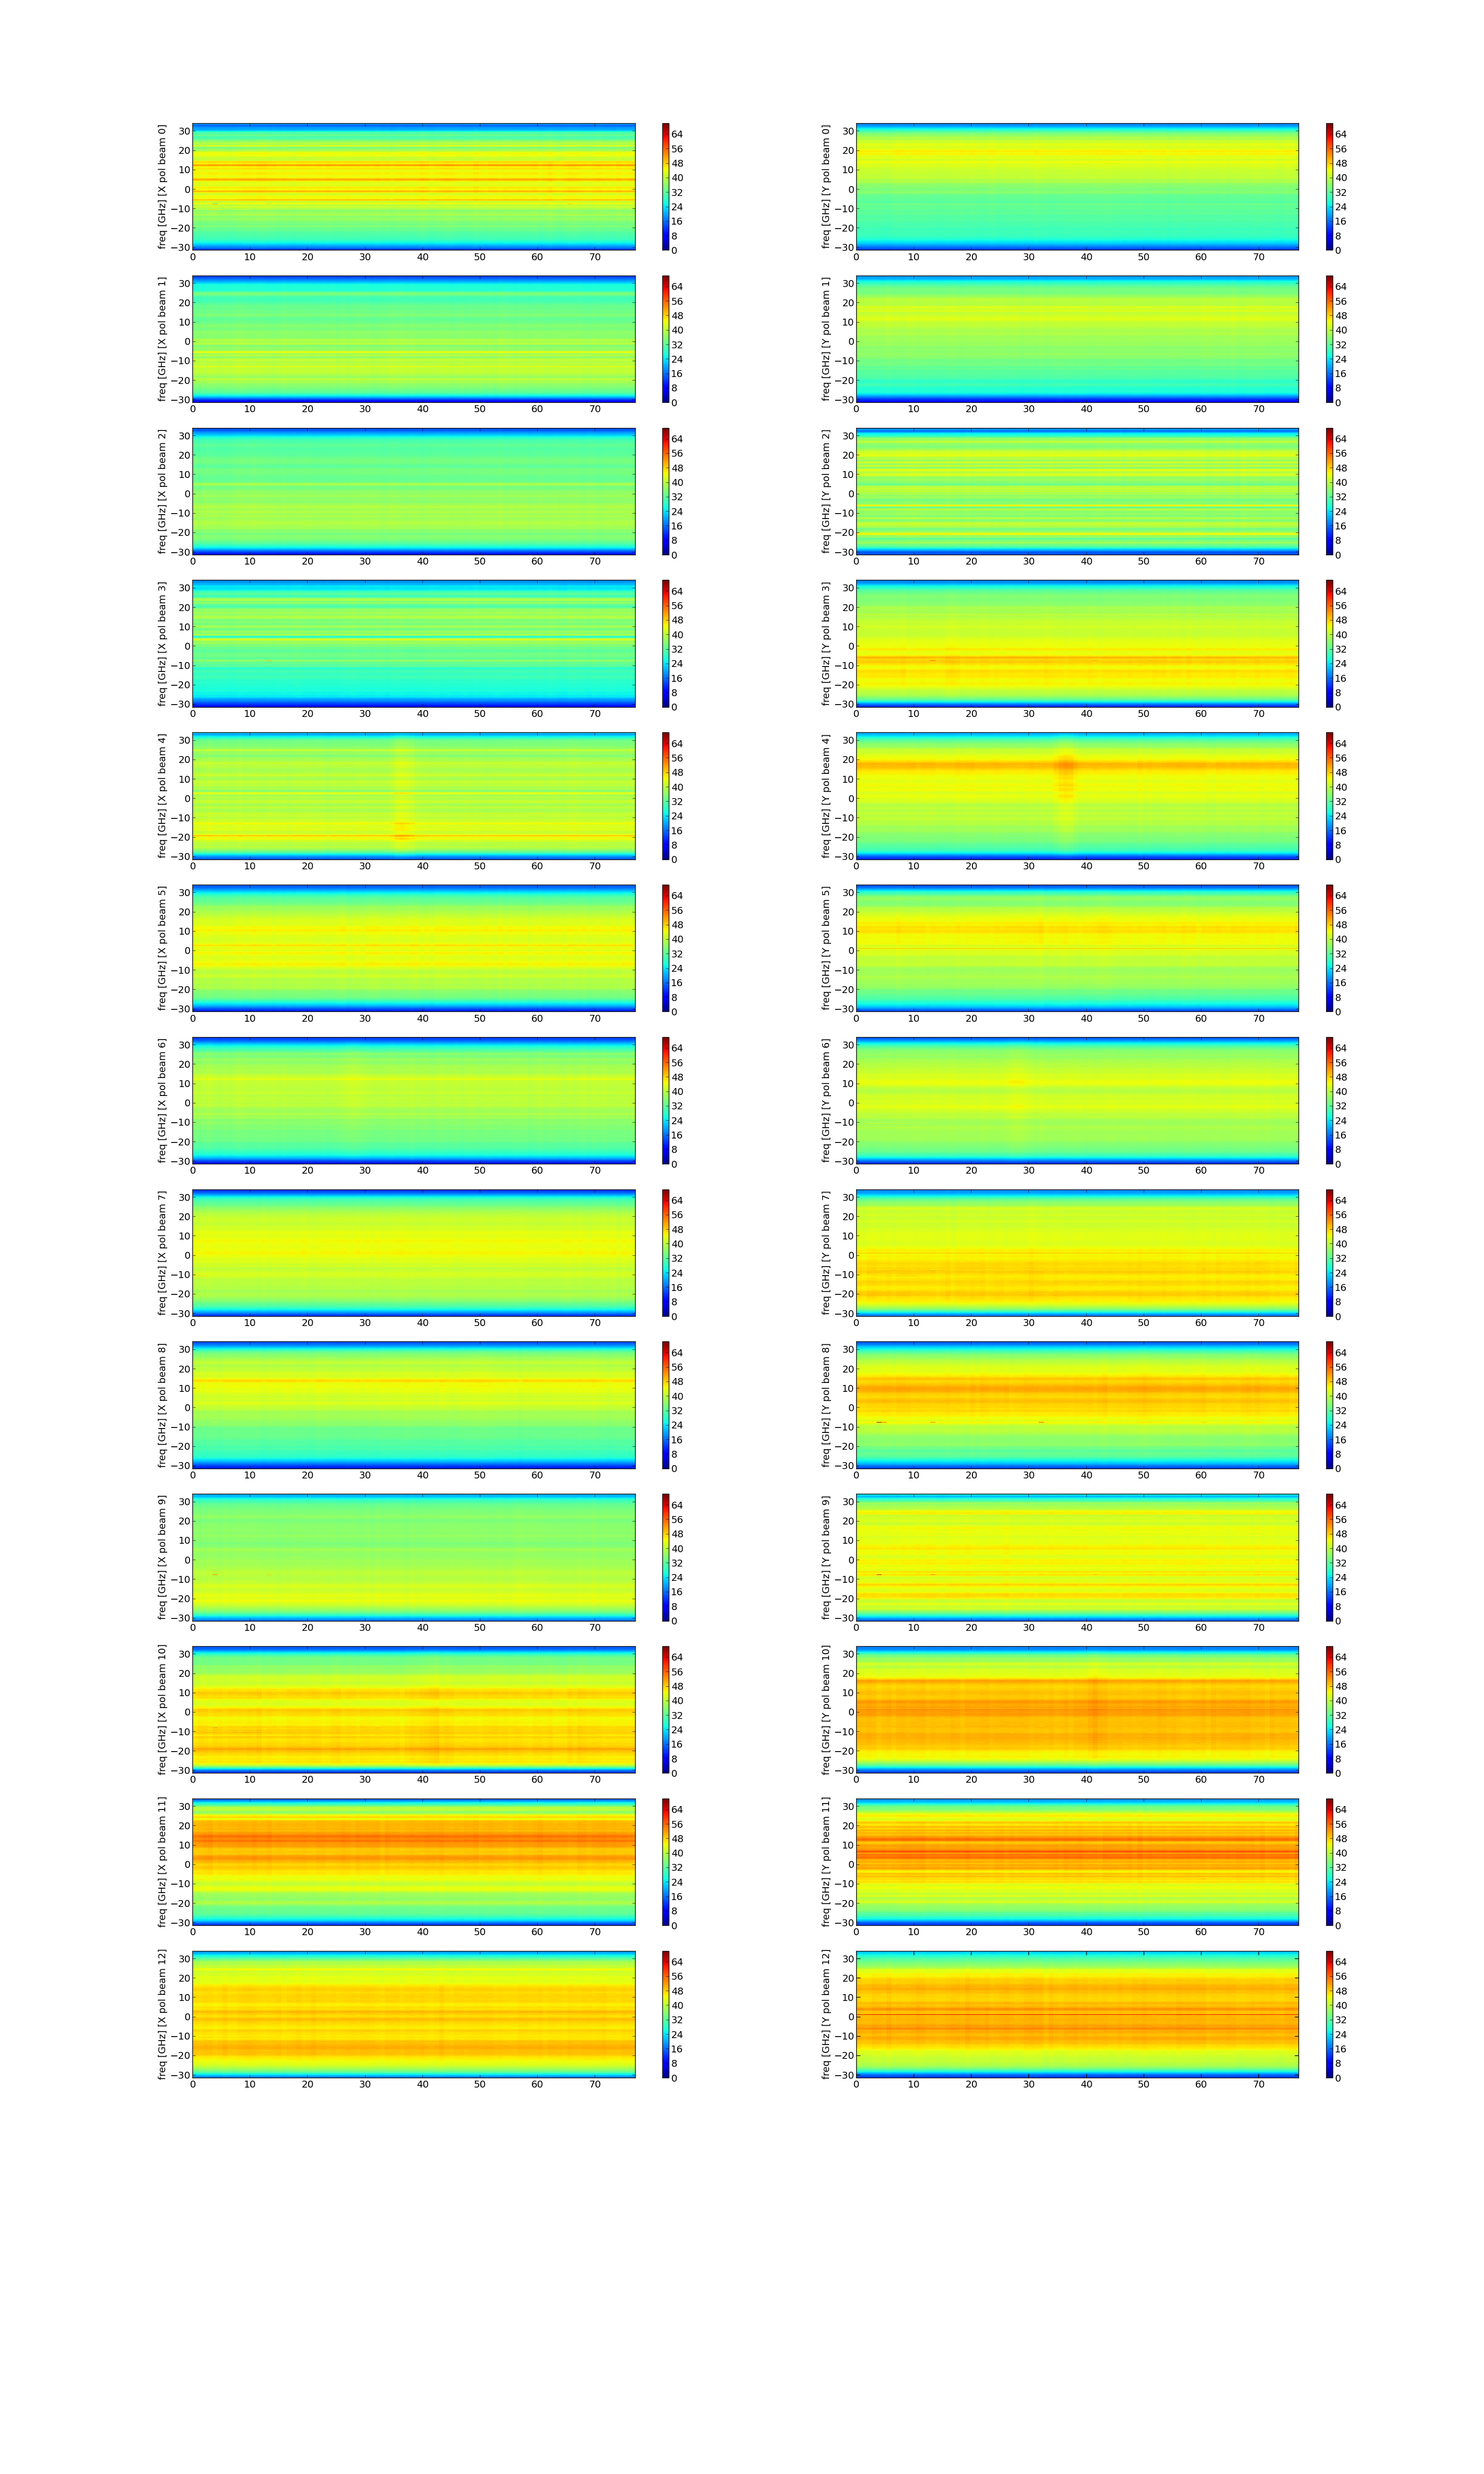
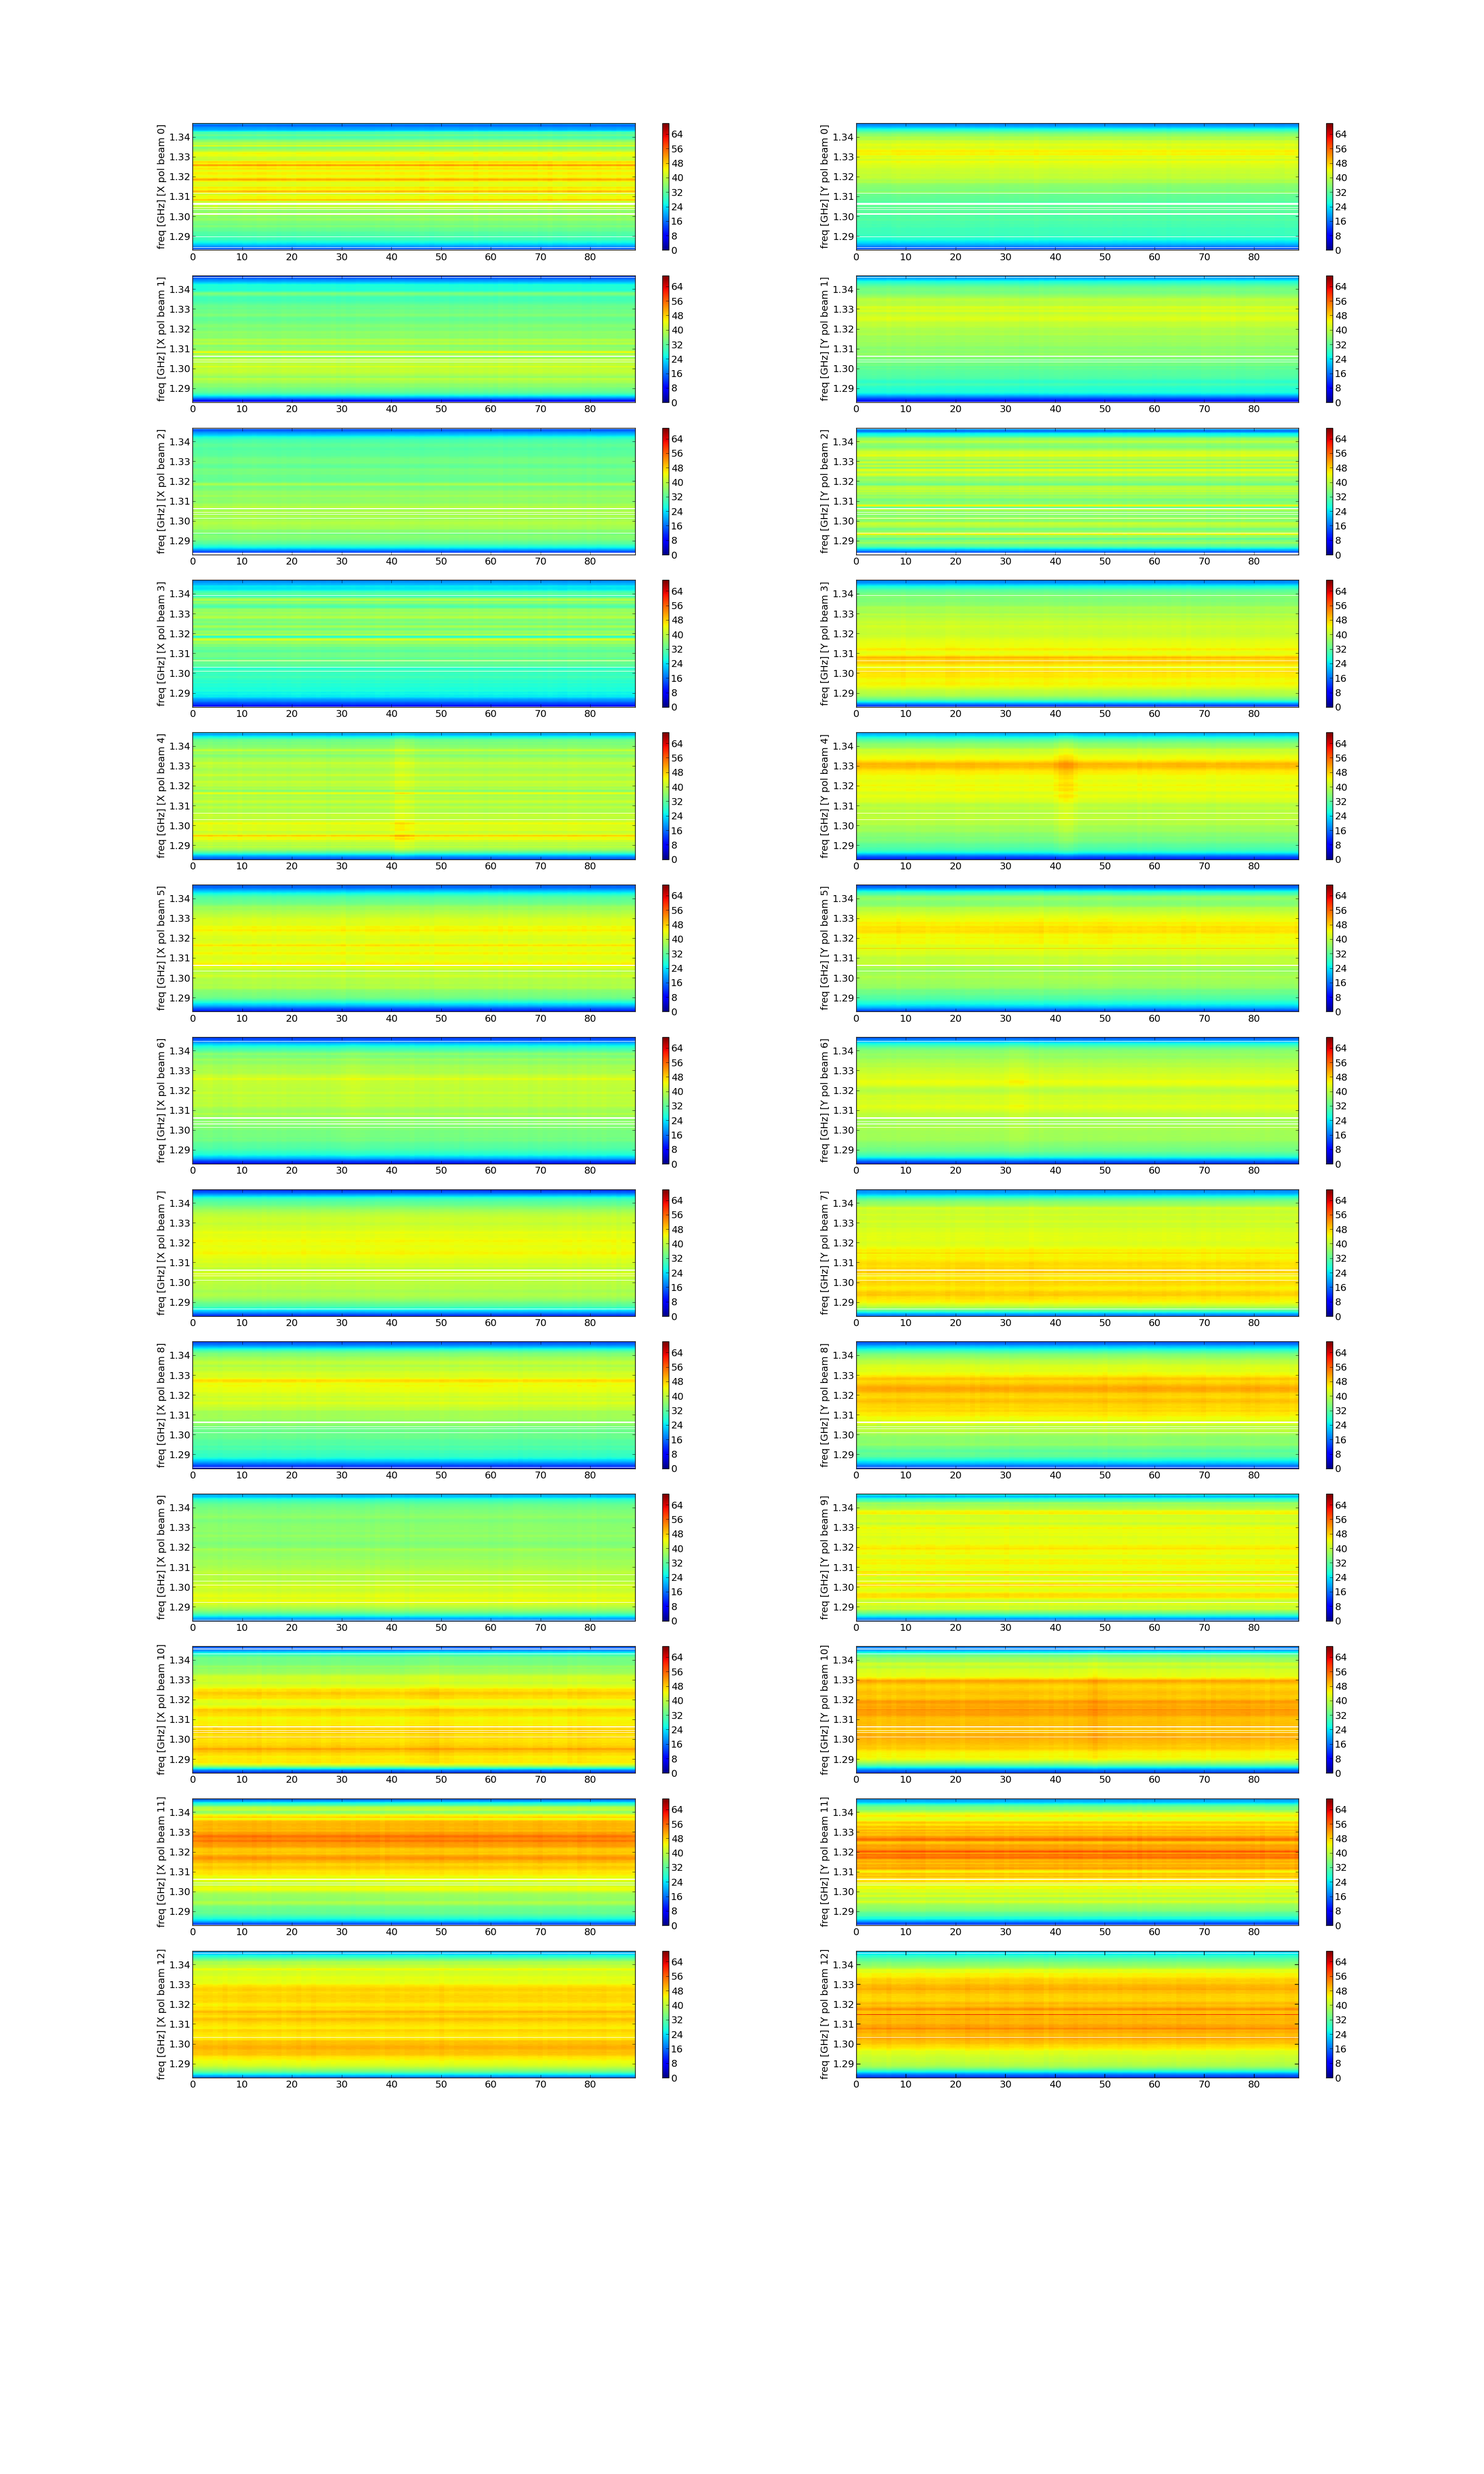
modify flagdata for 2 pol

diff --git a/check/check_fitsdata.py b/check/check_fitsdata.py
@@ -6,7 +6,8 @@ from mpl_toolkits.axes_grid1 import ImageGrid
 
 from parkes import fitsGBT
 
-rawdatapath = ('/mnt/raid-project/gmrt/ycli/map_result_parkes/converted_to_GBT_format/sept12/west/2008-09-12_1530_west1_1315_P641.fits',)
+#rawdatapath = ('/mnt/raid-project/gmrt/ycli/map_result_parkes/converted_to_GBT_format/sept12/west/2008-09-12_1530_west1_1315_P641.fits',)
+rawdatapath = ('/mnt/raid-project/gmrt/ycli/map_result_parkes/flagged/sept12/west/2008-09-12_1530_west1_1315_P641.fits',)
 
 class CheckFitsFile(object):
 
@@ -232,7 +233,7 @@ class CheckFitsFile(object):
         x = range(shape[1]/13)
         cf = self.tbdata.field('CRVAL1')[0]/1.e9
         cf_ind = self.tbdata.field('CRPIX1')[0]
-        df = self.tbdata.field('BANDWID')[0]/1.e9
+        df = self.tbdata.field('BANDWID')[0]/1.e9/1024.
         y = (range(shape[0]) - cf_ind) * df + cf
 
         #cmin = -0.6
